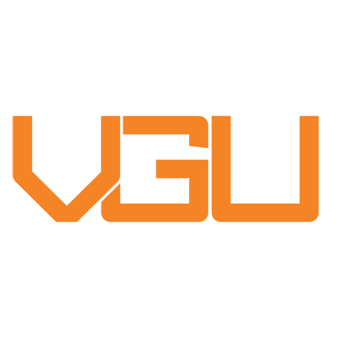
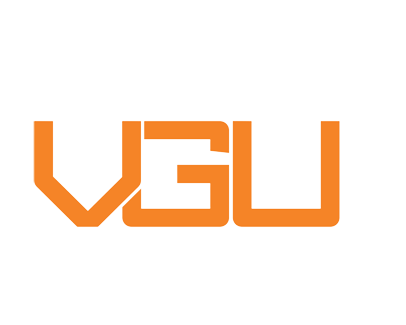
Update Everything

Changed region(s): [[0.1471, 0.3385, 0.9412, 0.7077], [0.0294, 0.3385, 0.1471, 0.5846], [0.1176, 0.6154, 0.1471, 0.6462]]

diff --git a/main.py b/main.py
@@ -8,26 +8,12 @@ import pandas as pd
 import matplotlib.pyplot as plt
 from matplotlib.backends.backend_tkagg import FigureCanvasTkAgg
 from ctypes import windll
-import time
-from modules.trafficGraph import *
+from modules.trafficPrepare import *
 from modules.dashboard import *
+from modules.analyzer import *
 import numpy as np
 from PIL import Image, ImageTk
 import PIL
-
-
-locationDict = {
-  "Highway A1 - Long An":"loc01",
-  "Highway 22 - Tay Ninh":"loc06",
-  "Vo Van Kiet - District 5":"loc02",
-  "Cau Bong Intersection":"loc09",
-  "Binh Trieu Intersection":"loc04",
-  "Binh Phuoc Intersection":"loc07",
-  "Linh Xuan Intersection":"loc08",
-  "Phu Mi Bridge ":"loc03",
-  "Long Thanh - Dau Giay":"loc05",
-  "all locations":"all"
-}
 
 def init_window():
   windll.shcore.SetProcessDpiAwareness(1)
@@ -40,23 +26,8 @@ def init_window():
   window.configure(bg='white')
   p1 = PhotoImage(file = 'traffic/traffic-app-icon.png')
   window.iconphoto(False, p1)
-  tabControl = ttk.Notebook(window)
   
-  image1 = Image.open("traffic/VGU.png")
-  new_image1 = image1.resize((150, 150), PIL.Image.ANTIALIAS)
-  test = ImageTk.PhotoImage(new_image1)
-  label1 =Label(image=test,borderwidth=0, relief="flat")
-  label1.image = test
-  label1.place(x=850, y=820)
-
-  tab1=tk.Frame(tabControl, background="white")
-  tab2=tk.Frame(tabControl, background="white")
-
-  tabControl.add(tab1, text='Daily')
-  tabControl.add(tab2, text='Weekly')
-  tabControl.pack(expand=1, fill="both")
-
-
+  
   return window
 
 def graphTraffic(date,destination):
@@ -71,21 +42,16 @@ def graphTraffic(date,destination):
   figure1.clf()
   ax1 = figure1.add_subplot(111)
   label = ['08:00\n-9:00', '09:00\n-10:00', '10:00\n-11:00', '11:00\n-12:00', '12:00\n-13:00','13:00\n-14:00','14:00\n-15:00','15:00\n-16:00','16:00\n-17:00']
-  car = getTraffic(date, destination)[0]
-  truck = getTraffic(date, destination)[1]
-  bike = getTraffic(date, destination)[2]
-  df1_data = {'time': label, 'bike': bike, 'car': car, 'giant': truck } 
+  traffic_data = getTraffic(date,destination)
+  car = traffic_data[0];  giant = traffic_data[1];  bike = traffic_data[2]
+  df1_data = {'time': label, 'bike': bike, 'car': car, 'giant': giant } 
   df1 = pd.DataFrame(df1_data)
-  print(df1)
-  data_analyzing(date, destination)
 
   graph = FigureCanvasTkAgg(figure1, window)
   graph_pointer = graph.get_tk_widget()
-  graph_pointer.place(x=310,y=90)
-  df1 = df1[['time', 'bike','car','giant']].groupby('time').sum()
-  df1.plot(kind='line', ax=ax1)
-  maximum = max(max(bike),max(truck),max(car))
-  ax1.set_ylim(ymin=0, ymax = maximum*1.1)
+  graph_pointer.place(x=310,y=150)
+  df1 = df1[['time', 'bike','car','giant']].groupby('time').sum().plot(kind='line', ax=ax1)
+  ax1.set_ylim(ymin=0, ymax = max(max(bike),max(giant),max(car))*1.1)
   
   for i in locationDict:
     if locationDict[i]==destination:
@@ -93,88 +59,12 @@ def graphTraffic(date,destination):
   print(locationTxt)
   ax1.set_title('Traffic at '+ locationTxt + " ["+ date+"]")
   count = 1
-  
-  # analytics = data_analyzing(date, destination)
-  # # analytics.place(x=310,y=500)
-  # sum_vehicles = ('There are ' + str(sum(analytics[0])) + ' vehicles in total' +'\n'
-  # + 'On average ' + str(int(round(analytics[1],-1))) + ' vehicles on the street\n'
-  # + 'The Median is ' + str(int(round(analytics[2],-1))) + '\n'
-  # + 'The standard deviation of this data is ' + str(int(round(analytics[3],-1))) + '\n'
-  # # + 'The variance of this data is ' + str(int(round(analytics[4],-1))) + '\n'
-  # + 'The difference between the maxium value and the minimum value ' + str(int(round(analytics[5],-1))) + '\n'
-  # + '75%' ' of the time vehicles is below ' + str(int(round(analytics[6],-1))) + '\n'
-  # )
-  # text = Text(window, bd = 0,height=50, width=80,font=("Helvetica", 14))
-  # text.insert('1.0', sum_vehicles)
-  # text.place(x=window.winfo_screenwidth()/21,y=5*window.winfo_screenheight()/7)
-
-
-def data_analyzing(date, destination):
-
-  car = getTraffic(date, destination)[0]
-  truck = getTraffic(date, destination)[1]
-  bike = getTraffic(date, destination)[2]
-  all = list()
-
-  for i,j,k in zip(car,truck,bike):
-    all.append(i+j+k)
-
-  # Mean: Average vehicles at any moment 
-  car_Mean = np.mean(car)
-  bike_Mean = np.mean(bike)
-  truck_Mean = np.mean(truck)
-  all_Mean = np.mean(all)
-  Mean = [car_Mean, bike_Mean, truck_Mean, all_Mean]
-
-  # Median: The middle value of the set of vehicles
-  car_Median = np.median(car)
-  bike_Median = np.median(bike)
-  truck_Median = np.median(truck)
-  all_Median = np.median(all)
-  Median = [car_Median, bike_Median, truck_Median, all_Median]
-
-  # Mode
-  # car_Mode = max(set(car), key = car.count)
-  # bike_Mode = max(set(bike), key = bike.count)
-  # truck_Mode = max(set(truck), key = truck.count)
-  # Mode = [car_Mode, bike_Mode, truck_Mode]
-
-  # Standard Deviation: The amount of vehicles that varies from the mean.
-  car_Std = np.std(car)
-  bike_Std = np.std(bike)
-  truck_Std = np.std(truck)
-  all_Std = np.std(all)
-  Std = [car_Std, bike_Std, truck_Std, all_Std]
-
-  # Variance
-  car_Var = np.var(car)
-  bike_Var = np.var(bike)
-  truck_Var = np.var(truck)
-  all_Var = np.var(all)
-  Var = [car_Var, bike_Var, truck_Var, all_Var]
-
-  # Range: The difference between the highest and lowest number of vehicles
-  car_Range = max(car) - min(car)
-  bike_Range = max(bike) - min(bike)
-  truck_Range = max(truck) - min(truck)
-  all_Range = max(all) - min(all)
-  Range = [car_Range, bike_Range, truck_Range, all_Range]
-
-  # Percentile: 75% of the time the number of vehicles is less than this number
-  car_Percentile = np.percentile(car, 75)
-  bike_Percentile = np.percentile(bike, 75)
-  truck_Percentile = np.percentile(truck, 75)
-  all_Percentile = np.percentile(all, 75)
-  Percentile = [car_Percentile, bike_Percentile, truck_Percentile, all_Percentile]
-
-  # Correlation: The relationship between two variables
-  # car_Correlation = np.corrcoef(car, truck)[1][0]
-  # bike_Correlation = np.corrcoef(bike, truck)[1][0]
-  # truck_Correlation = np.corrcoef(truck, truck)[1][0]
-  # Correlation = [car_Correlation, bike_Correlation, truck_Correlation]
-  one_list = [all,all_Mean, all_Median, all_Std, all_Var, all_Range, all_Percentile]
-  return one_list
-
+  print(traffic_data)
+  analysisTxt = data_analyzing(traffic_data)
+  text = Text(window, padx=15, pady=15,height=20, width=25,bg= sidebar_color, fg= sidebar_text, font=("Times New Roman",12))
+  text.config(bd = 3)
+  text.insert('1.0', analysisTxt)
+  text.place(x=5, y=450)
 
 def get_content(entry):
     content=entry.get()
@@ -194,36 +84,28 @@ ax1 = 0
 count = 0
 graph_pointer = 0
 
-Dashboard(window)
-
-# location option
+dashboard = Dashboard(window)
 location = list(locationDict.keys())
 date = getDate()
 
-# title = tk.Label(text="Traffic Capture at Ho Chi Minh City", font=("Roboto",25),bg='white',fg='#aa1111')
-# title.place(x = 200, y = 40)
-text = Label(text="Traffic Capture at Ho Chi Minh City", font=("Roboto", 25, "bold"), fg='red', background="white")
-text.place(x = 220, y = 40)
-
-
-label_date = tk.Label(text="Date: ",bg="white",anchor="w")
-label_date.place(x=5,y=155,width=90,height=30)
+label_date = tk.Label(text="Date: ",bg=sidebar_color,fg=sidebar_text,anchor="e")
+label_date.place(x=sidebar_x,y=sidebar_y,width=70,height=30)
 
 clicked_date = StringVar()
 clicked_date.set('Select the date')
-drop_date = tk.OptionMenu(window,clicked_date,*date)
-drop_date.place(x=95,y=155,width = 200,height=30)
+drop_date = OptionMenu(window,clicked_date,*date)
+drop_date.place(x=sidebar_x+70,y=sidebar_y,width = 200,height=30)
 
-label_loc = tk.Label(text="Location: ",bg="white",anchor="w")
-label_loc.place(x=5,y=205,width=90,height=30)
+label_loc = tk.Label(text="Area: ",bg=sidebar_color,fg=sidebar_text,anchor="e")
+label_loc.place(x=sidebar_x,y=sidebar_y+50,width=70,height=30)
 
 clicked_loc = StringVar(window)
 clicked_loc.set('Select the location')
-drop_loc = tk.OptionMenu(window,clicked_loc,*location)
-drop_loc.place(x=95,y=205,width = 200,height=30)
+drop_loc = OptionMenu(window,clicked_loc,*location)
+drop_loc.place(x=sidebar_x+70,y=sidebar_y+50,width = 200,height=30)
 
-button = tk.Button(text = "Graph", command= onClick)
-button.place(x=95,y=255,width=200,height=60)
+button = tk.Button(text = "Graph", command= onClick, cursor="hand2")
+button.place(x=sidebar_x +70,y=sidebar_y+95,width=200,height=45)
 graphTraffic("12-11","all")
 
 window.mainloop()

diff --git a/modules/dashboard.py b/modules/dashboard.py
@@ -1,21 +1,48 @@
 from tkinter import *
-from PIL import Image, ImageTk
+import tkinter as tk
+from tkinter import ttk
 from datetime import *
-import time
+from PIL import Image, ImageTk
+import PIL
+import webbrowser
+
+sidebar_color = '#00539C'
+sidebar_text = 'white'
+header_color = "#D2042D"
+header_text = "white"
+sidebar_y = 220
+sidebar_x = 5
+
+def callback(url):
+    webbrowser.open_new(url)
 
 class Dashboard:
     def __init__(self, window):
         self.window = window
+        
+        tabControl = ttk.Notebook(window)
+        
+        tab1=tk.Frame(tabControl, background="white")
+        tab2=tk.Frame(tabControl, background="white")
+
+        tabControl.add(tab1, text='Daily')
+        tabControl.add(tab2, text='Weekly')
+        tabControl.pack(expand=1, fill="both")
 
         # header
-        # self.header = Frame(self.window, bg='#FFFFFF')
-        # self.header.place(x = 300, y = 0, width = 1070, height = 60)
-
-        # self.text = Label(self.window, text="Traffic Capture at Ho Chi Minh City", font=("Roboto", 25, "bold"), fg='blue', activebackground='white')
-        # self.text.place(x = 320, y = 40)
-
-        # # sidebar
-        # self.sidebar = Frame(self.window, bg ='#FFFFFF00')
-        # self.sidebar.place(x = 0, y = 0, width = 300, height = 950)
+        self.header = Frame(self.window, bg=header_color)
+        self.header.place(x = 300, y = 28, width = 2000, height = 120,)
+        text = Label(text="Traffic Capture in Ho Chi Minh City", font=("Roboto", 25, "bold"), fg=header_text, background=header_color)
+        text.place(x = 345, y = 65)
 
 
+        # sidebar
+        self.sidebar = Frame(self.window, bg =sidebar_color)
+        self.sidebar.place(x = 0, y = 28, width = 300, height = 1500)
+        image1 = Image.open("traffic/VGU.png")
+        new_image1 = image1.resize((150, 150), PIL.Image.ANTIALIAS)
+        test = ImageTk.PhotoImage(new_image1)
+        label1 =Label(self.sidebar, image=test,borderwidth=0, relief="flat",background=sidebar_color,cursor="hand2")
+        label1.image = test
+        label1.pack(side=TOP,padx=20)
+        label1.bind("<Button-1>", lambda e: callback("https://www.overleaf.com/read/rhrsbdsrhjfy"))

diff --git a/modules/analyzer.py b/modules/analyzer.py
@@ -1,0 +1,22 @@
+from numpy import *
+from math import *
+
+def data_analyzing(trafficData):
+  name = ['Car','Giant','Bike']
+  outputStr = "ANALYSIS\n\n"
+  for i in range(0,3):
+    total = str(sum(trafficData[i]))
+    meanVal = str(floor(mean(trafficData[i])))
+    stdVal = str(floor(std(trafficData[i])))
+    maxVal = trafficData[i].index(max(trafficData[i])) + 8
+    maxVal = str(maxVal) +":00 - " + str(maxVal+1)+":00"
+    temp = 0; hour = 8
+    for j in trafficData[i]:
+      temp += j
+      if(2*temp >= int(total)):
+        break
+      hour +=1
+    medianVal = str(hour) +":00 - " + str(hour+1)+":00"
+    outputStr += name[i] + ": " + total +" detected\n  Mean: " + meanVal + "\n  Std deviation: "+stdVal
+    outputStr += "\n  Median:" + medianVal + "\n  Rush hour: "+maxVal+"\n\n"
+  return outputStr

diff --git a/modules/trafficPrepare.py b/modules/trafficPrepare.py
@@ -50,7 +50,6 @@ def getTraffic(date, destination):
       if ("motorcycle" in part) or ("bicycle" in part):
         bikes[index] += int(temp)
       temp = part
-
   # print(cars)
   # print(giants)
   # print(bikes)
@@ -67,3 +66,16 @@ def getDate():
               file = '\t\t\t\t'+ file +'-2022'+'\t\t\t\t'
               date.append(file)
   return date
+
+locationDict = {
+  "Highway A1 - Long An":"loc01",
+  "Highway 22 - Tay Ninh":"loc06",
+  "Vo Van Kiet - District 5":"loc02",
+  "Cau Bong Intersection":"loc09",
+  "Binh Trieu Intersection":"loc04",
+  "Binh Phuoc Intersection":"loc07",
+  "Linh Xuan Intersection":"loc08",
+  "Phu Mi Bridge ":"loc03",
+  "Long Thanh - Dau Giay":"loc05",
+  "all locations":"all"
+}
